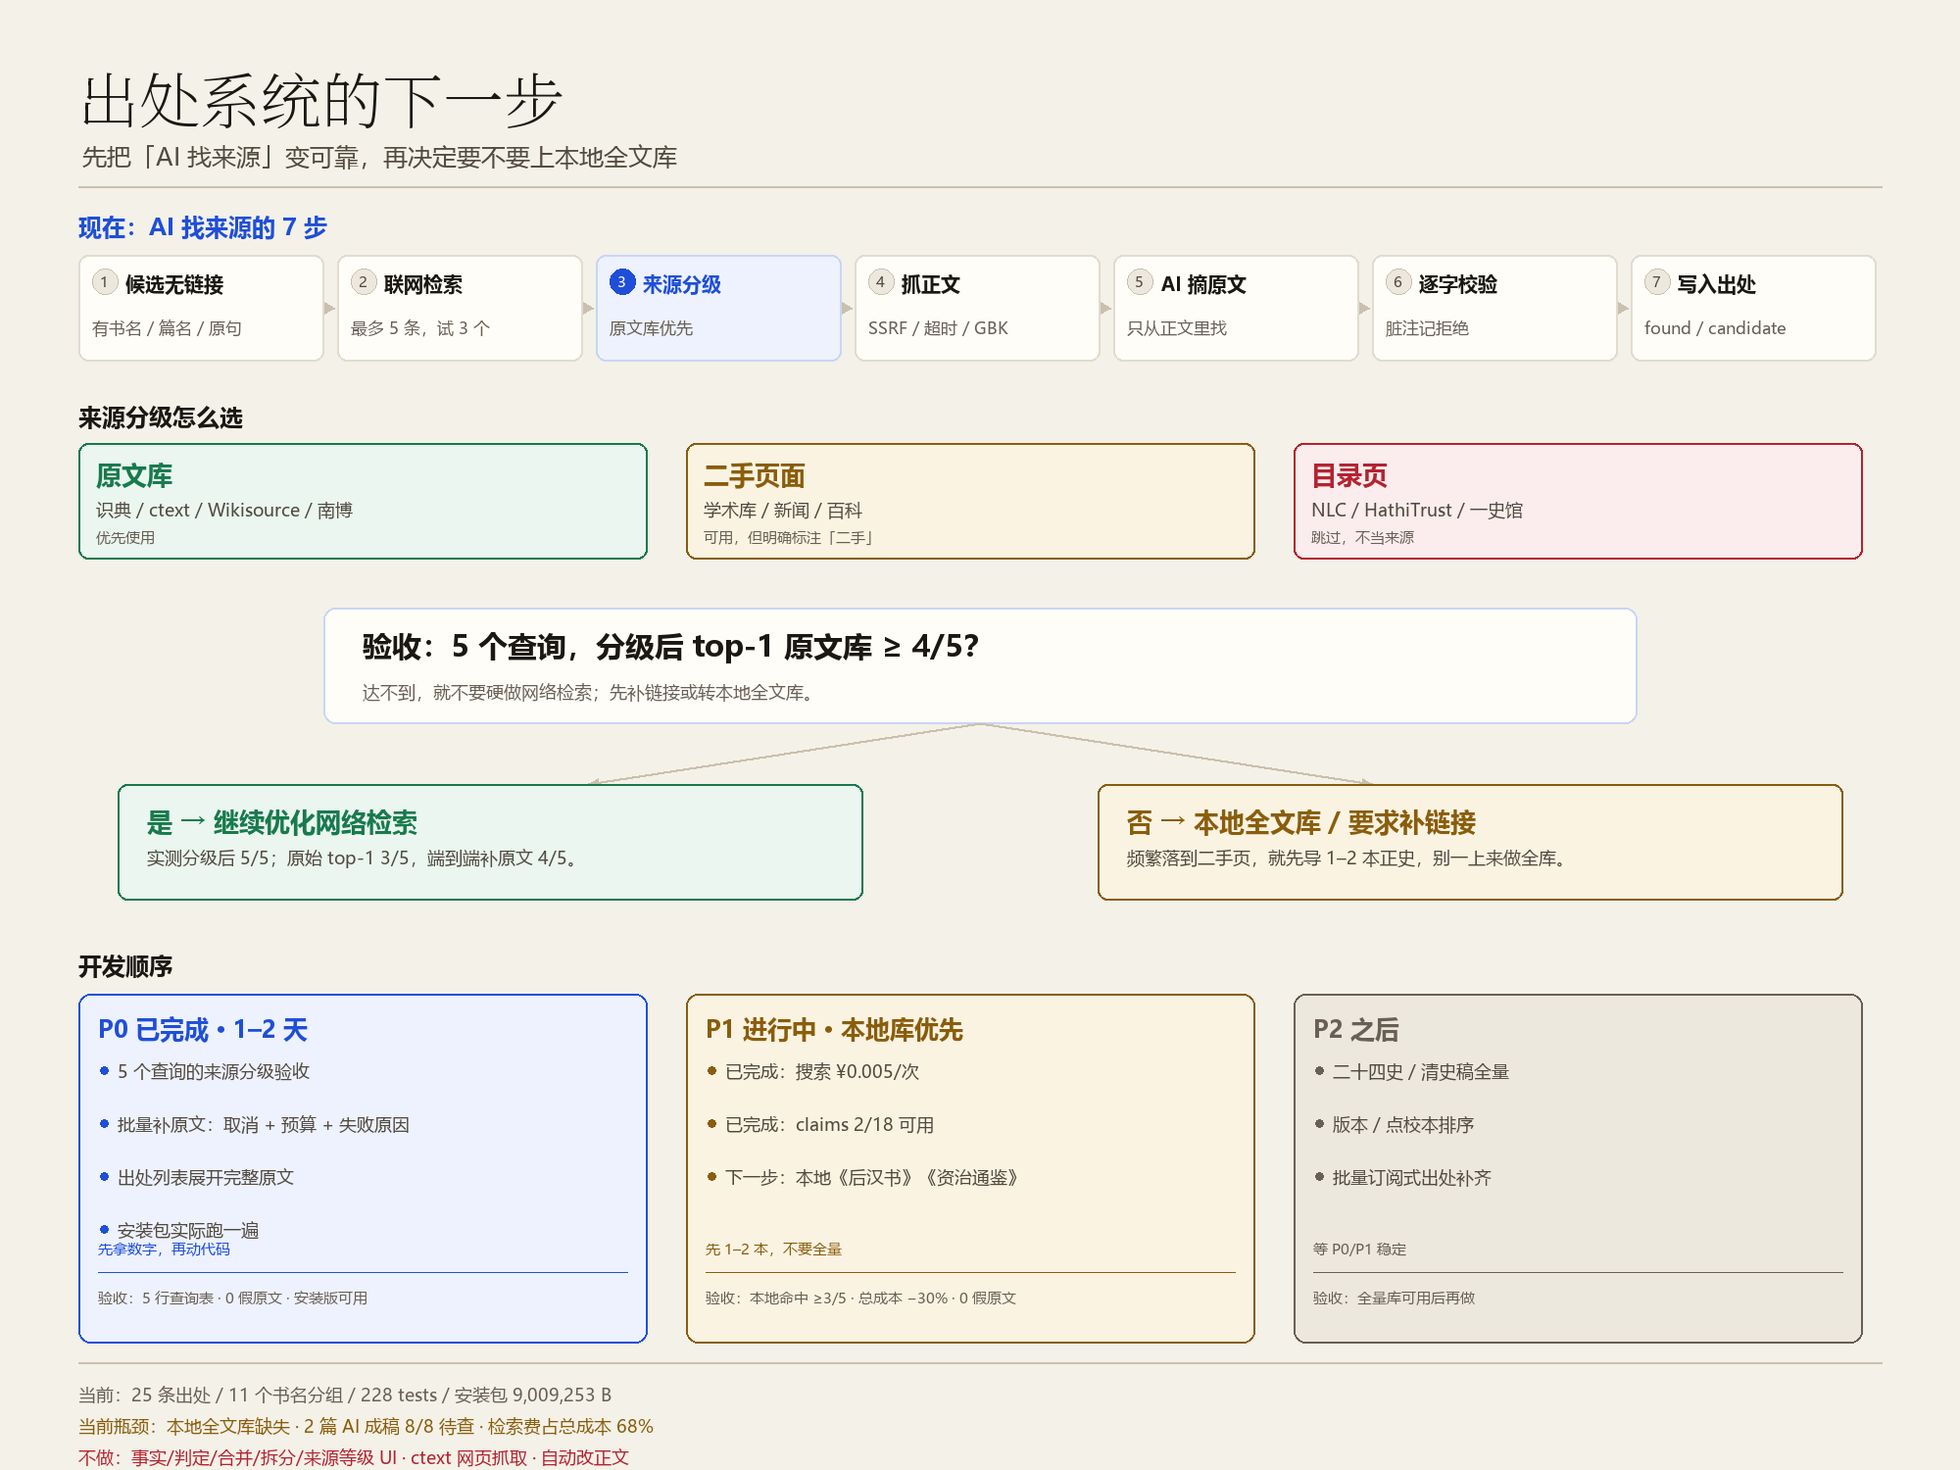
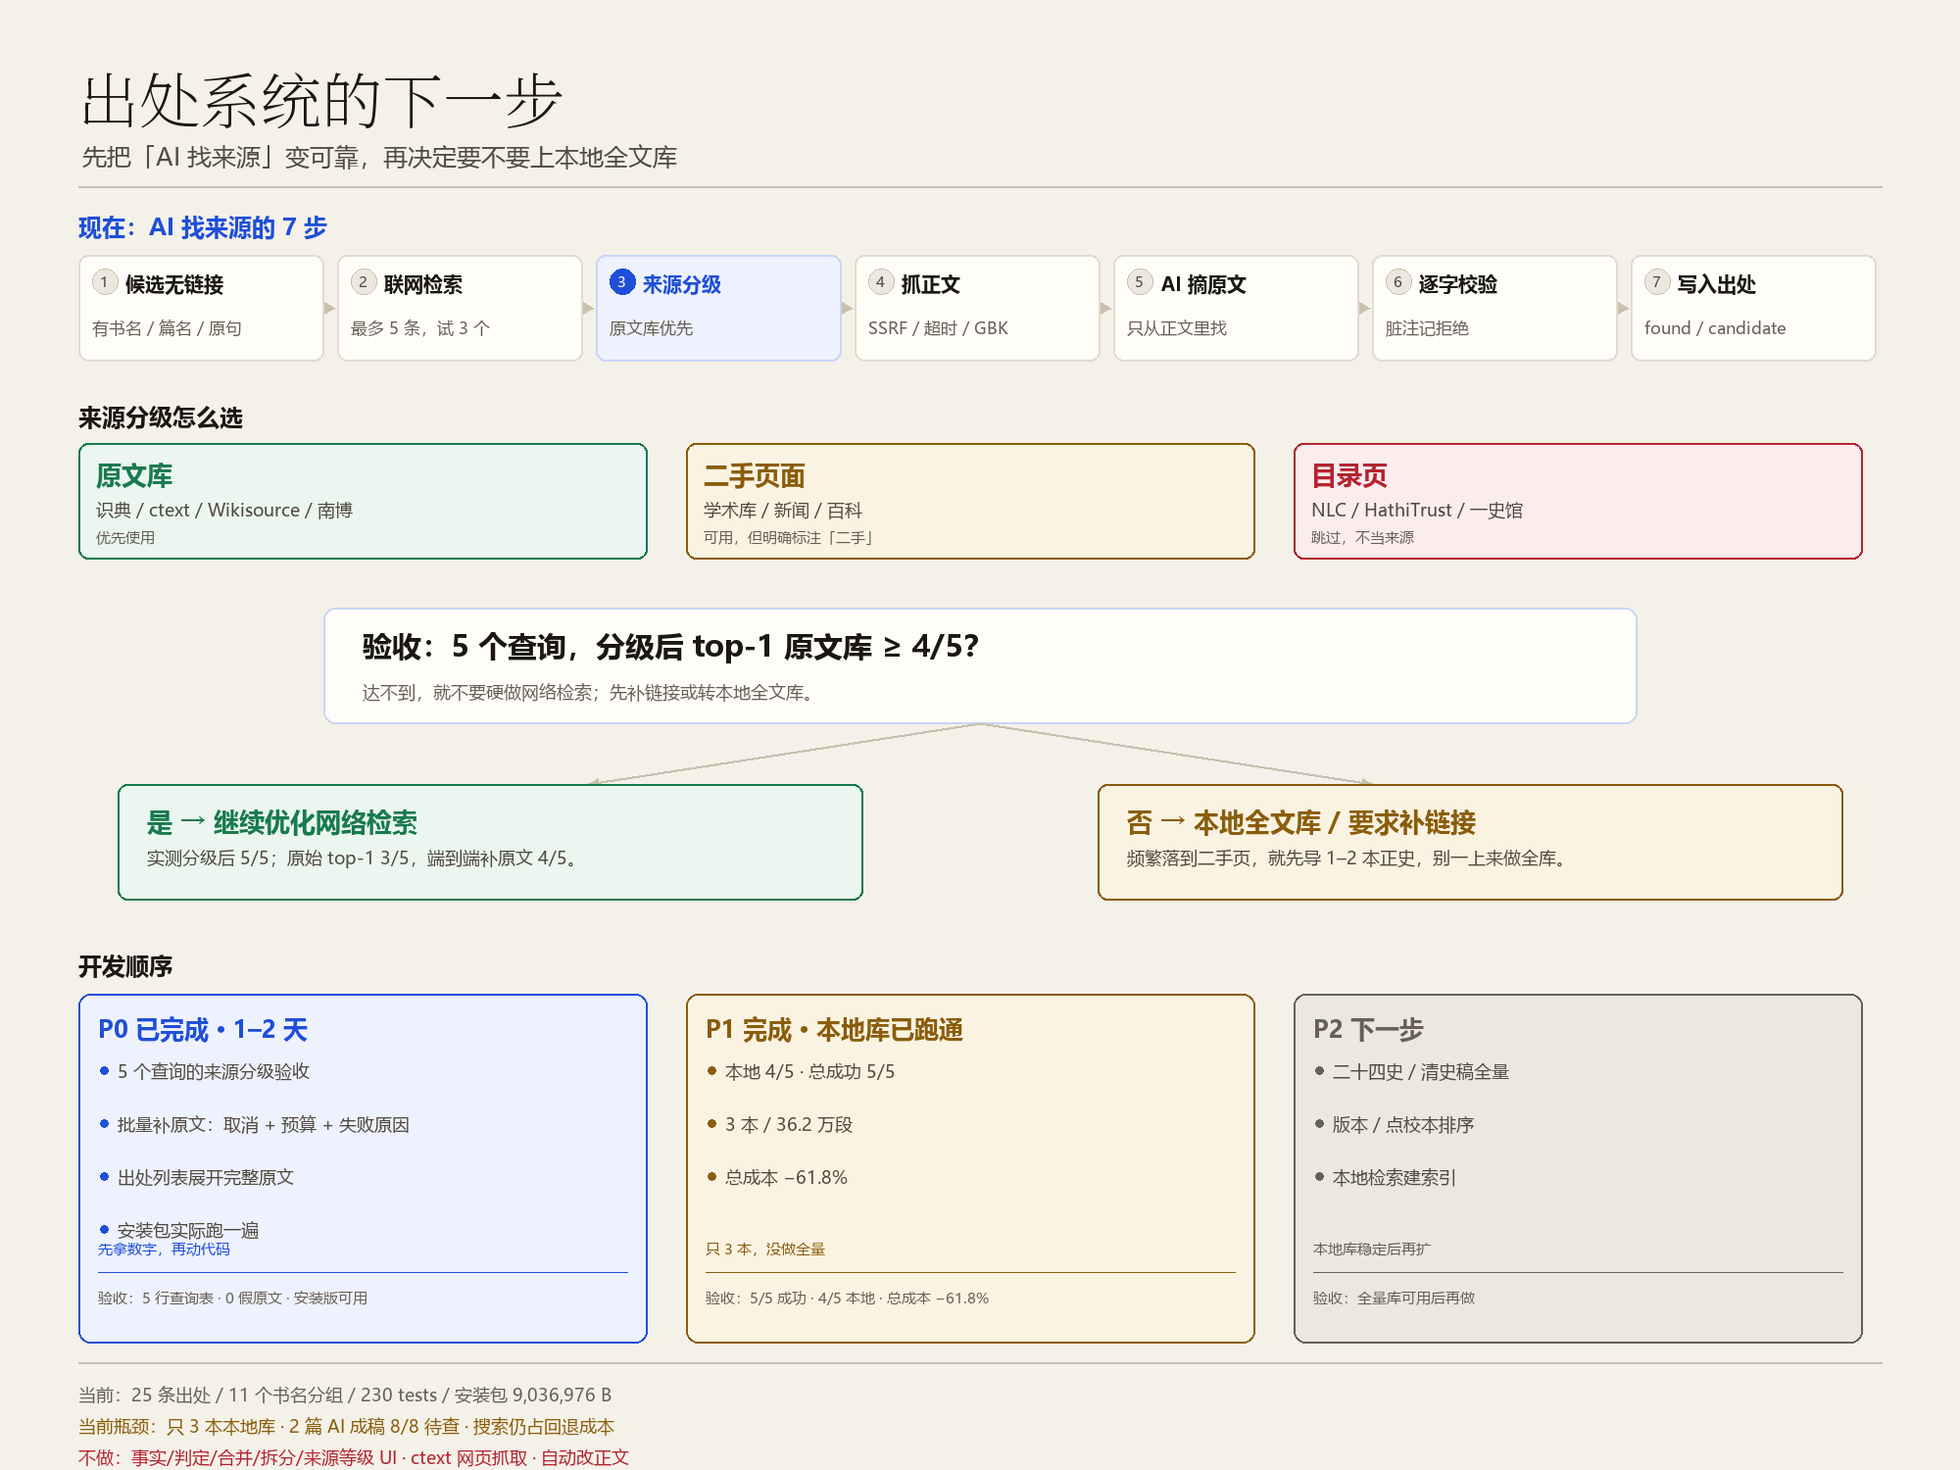
docs: 记录 P185 本地全文库与安装包
三本 361,551 段，5/5 成功、4/5 本地、总成本 ¥0.013996（−61.8%）。安装包 9,036,976 B，安装版验证了本地库与导入。

diff --git a/docs/HANDOFF.md b/docs/HANDOFF.md
@@ -5,9 +5,9 @@
 
 ## 1. 当前状态
 
-- 分支：`feat/native-production-facts-ui`；P137–P147 已推送（`0f62cec`），P148–P159 已提交并推送（HEAD 见 `git log`）；P160 速览 vs AI 成稿同源对比已记录。**P161–P166 已提交**：后端 `9b642f6`、前端 `44c6177`、工具 `68714a3`；文档 `7053590`、P167 文档 `d486dfb`。**P168 已提交**：主导航移除“事实”（`c03d96a`）、第三篇陈寿笔记 4/4 补原文、安装包体积（`b2f5650` / `d9e8beb`）。**P169 已做**：兼容性对照；**P170 已做**：AI 成稿 claims 协议 + cite_agent 确定性读取 + 出处栏状态标签；**P171 已做**：纠正串联，改用康熙原始转写并列对照；**P172 已做**：同一篇 AI 成稿的旧/新出处 agent 对照；**P173 已做**：出处编辑交互修复；**P174 已做**：AI 补原文（URL 抓取 + 模型定位 + 逐字校验）；**P175 已做**：claims 注释剥离 + AI 补原文成本回报；**P176 已做**：3 条批量补原文 + 1024 操作行；**P177 已做**：批量补原文 UI；**P178 已做**：无 URL 候选的 AI 找来源；**P179 已做**：来源分级 + 史料页收敛；**P180 已做**：批量停止/预算/失败原因 + 失败成本入账；**P181 已做**：5 查询来源与端到端验收；**P182 已做**：出处折叠 + 安装版验收；**P183 已做**：DeepSeek 搜索成本记账；**P184 已做**：AI 成稿 claims 基线与待查提示。正文曾短暂校正两处，按用户要求已还原；数据在 vault DB。`sample-vault/` 下的个人内容不要提交。
+- 分支：`feat/native-production-facts-ui`；P137–P147 已推送（`0f62cec`），P148–P159 已提交并推送（HEAD 见 `git log`）；P160 速览 vs AI 成稿同源对比已记录。**P161–P166 已提交**：后端 `9b642f6`、前端 `44c6177`、工具 `68714a3`；文档 `7053590`、P167 文档 `d486dfb`。**P168 已提交**：主导航移除“事实”（`c03d96a`）、第三篇陈寿笔记 4/4 补原文、安装包体积（`b2f5650` / `d9e8beb`）。**P169 已做**：兼容性对照；**P170 已做**：AI 成稿 claims 协议 + cite_agent 确定性读取 + 出处栏状态标签；**P171 已做**：纠正串联，改用康熙原始转写并列对照；**P172 已做**：同一篇 AI 成稿的旧/新出处 agent 对照；**P173 已做**：出处编辑交互修复；**P174 已做**：AI 补原文（URL 抓取 + 模型定位 + 逐字校验）；**P175 已做**：claims 注释剥离 + AI 补原文成本回报；**P176 已做**：3 条批量补原文 + 1024 操作行；**P177 已做**：批量补原文 UI；**P178 已做**：无 URL 候选的 AI 找来源；**P179 已做**：来源分级 + 史料页收敛；**P180 已做**：批量停止/预算/失败原因 + 失败成本入账；**P181 已做**：5 查询来源与端到端验收；**P182 已做**：出处折叠 + 安装版验收；**P183 已做**：DeepSeek 搜索成本记账；**P184 已做**：AI 成稿 claims 基线与待查提示；**P185 已做**：本地全文库（三本 36.2 万段，5/5 成功、成本 −61.8%）。正文曾短暂校正两处，按用户要求已还原；数据在 vault DB。`sample-vault/` 下的个人内容不要提交。
 - 最近构建：`cargo test --lib` **226 passed / 7 ignored**；`npm run build` 通过；P166 视觉 607/608、P167 视觉 609–612、P168 视觉 613–616、P170 视觉 619/620 均 pass。三篇旧链路共 **15/15** 条出处有原文；AI 成稿 claims 小样 1 found + 1 candidate。
[2 lines of base64/hex data omitted]
 - 制作台可见模板 **4 个**：视频笔记、文稿笔记、**AI 成稿**、速览与溯源；技术小册子、HTML 作者版、前端 agent runtime、技术调研笔记、智能体笔记已删除。
 - `sample-vault/` 下未跟踪的个人笔记和 `.yebian/` 运行产物不是代码改动，不要提交。
 
@@ -164,7 +164,7 @@
 - **证据**：对照图 `docs/trace-agent/compare-bili.png`（1800×1280，2x）、数据 `docs/trace-agent/runs/compare-bili/comparison.json`、生成器 `tools/build-trace-compare-chart.mjs`。独立视觉评审 8 分 pass，修掉小字/行 04/标签键后复检。
 - **边界**：单视频、10 条、无人工盲评；hybrid v1 是单循环，不是最终 per-claim agent；旧事实在库里但 hybrid 忽略；安装包未重打。
 
-### 2026-11-21 增量：出处系统（P163–P184，已提交）
+### 2026-11-21 增量：出处系统（P163–P185，已提交）
 
 - **产品降级**：历史学习只需要“笔记原句 → 书名/原文”，不再做事实/判定/合并/拆分/候选分级。旧事实与史料页保留为档案，不删数据。
 - **新模型**：`note_citations`（history.rs）存 note_id、逐字 note_quote、work_title/author/volume/page/locator、original_text、status found/candidate、passage/source/url/snippet；复用 sources/source_passages/history_search_candidates。
@@ -189,6 +189,7 @@
[4 lines of base64/hex data omitted]
 - **P178 无 URL 候选 AI 找来源**：`fill_original` 无 URL 时用 work/section/原句联网检索（最多 5 条，取前 3 个 URL），逐个抓取+定位+逐字校验；`quote_is_clean` 拒绝“同上/頁/页/http/www.”。实测第一次学术库结果因“173/同上，頁334”被拒，重跑得到干净“春正月，大疫，使使者巡行致醫藥。”，15,958ms / ¥0.001919 / found；UI 14.3s / ¥0.0010，截图 645，视觉 pass。
 - **P177 批量补原文 UI**：出处栏新增 `AI 补齐候选 N`，只处理有 URL 的候选，串行补；运行中 `AI 补齐 1/3…`，完成后 `AI 补齐完成：3/3 成功 · ¥0.0052`，无候选时按钮消失。实测 3/3 found、约 5s、¥0.0052；截图 644，视觉 pass；226 tests。
 - **P176 批量补原文 + 1024**：3 条候选串行 AI 补原文 **3/3 found / 约 5.3s / ¥0.0207**：后汉书南博页两条（1,031ms/¥0.000755、1,576ms/¥0.009449），资治通鉴卷132一条（2,712ms/¥0.010488）。1024 下操作行 `AI 补原文/手动补原文/打开来源/删除` 能放下，无横向溢出；切笔记残留提示已在 `loadCitations` 清空。截图 642/643，视觉两页 pass。
@@ -229,7 +230,7 @@
 - **AI 成稿默认门禁很宽**：只有 1 个 H1 + ≥200 CJK；不再有固定 8–12 节、无表格、禁用小节等严格规则。需要结构时靠向导里的「写作要求」，它是软 brief，不是确定性校验。
 - **HTML 视觉块（P159）**：中性色归一只是常见 hex 值映射，模型仍可能写硬编码强调色/复杂布局；旧 figure 笔记按普通代码块显示；FTS/字数要重建索引；已重启新二进制并重建索引，复跑输出为竖排时间线，复检 3 页 pass；fallback LIKE 也过滤 CSS 词；复检的竖脊线/时间色/标题字重/max-width 建议未实现；多稿实测发现 720→575 设计宽度错误已修，`rgb()` 灰度也已归一，`resize` 会重算高度；未重打安装包。
 - **溯源 Agent（P161/P162）**：实验版，已被 P163 出处系统替代；旧事实页仍保留为档案。
-- **出处系统（P163–P184）**：三篇旧链路 15/15 有原文；P170 claims 确定性读取；P171 纠正串联；P172 同一 AI 成稿旧路径 2 候选/19.4s vs 新路径 1 found+1 candidate/6ms；P173 交互修复；P174 AI 补原文；P175 claims 注释剥离（450→238）与成本回报；P176 3 条批量 3/3 found/约 5.3s/¥0.0207；P177 批量 UI 3/3/¥0.0052；P178 无 URL AI 找来源；P179 来源分级（识典 primary 2,474ms/¥0.00169）+ 史料页收敛（25 条/11 组）；P180 批量停止/预算/失败原因 + 失败成本入账；P181 5 查询原始 top-1 3/5、分级后 5/5、端到端 4/5/¥0.018469；P182 出处折叠 + 安装版 `9,004,718 B` 安装验收；P183 DeepSeek 搜索 ¥0.005/次记账，端到端总成本 ¥0.036640；P184 3 篇 AI 成稿 claims 审计：18 条仅 2 条可引用，2 篇 8/8 待查；出处栏显式提示。`work` 为空跳过；`待查` 不落出处；正文未改，差异保留在出处卡片；补原文只保存文本、不自动对齐；自动收尾代码已加但未真实模型复跑；陈寿「评价最好」是作者判断；旧事实页已从主导航移除、数据未删；目录页候选不进入批量；Tavily/Zhipu 搜索仍未计价。
+- **出处系统（P163–P185）**：三篇旧链路 15/15 有原文；P170 claims 确定性读取；P171 纠正串联；P172 同一 AI 成稿旧路径 2 候选/19.4s vs 新路径 1 found+1 candidate/6ms；P173 交互修复；P174 AI 补原文；P175 claims 注释剥离（450→238）与成本回报；P176 3 条批量 3/3 found/约 5.3s/¥0.0207；P177 批量 UI 3/3/¥0.0052；P178 无 URL AI 找来源；P179 来源分级（识典 primary 2,474ms/¥0.00169）+ 史料页收敛（25 条/11 组）；P180 批量停止/预算/失败原因 + 失败成本入账；P181 5 查询原始 top-1 3/5、分级后 5/5、端到端 4/5/¥0.018469；P182 出处折叠 + 安装版 `9,004,718 B` 安装验收；P183 DeepSeek 搜索 ¥0.005/次记账，端到端总成本 ¥0.036640；P184 3 篇 AI 成稿 claims 审计：18 条仅 2 条可引用，2 篇 8/8 待查；P185 本地全文库 3 本/361,551 段，5/5 成功、4/5 本地、成本 ¥0.013996（−61.8%）。`work` 为空跳过；`待查` 不落出处；正文未改，差异保留在出处卡片；补原文只保存文本、不自动对齐；自动收尾代码已加但未真实模型复跑；陈寿「评价最好」是作者判断；旧事实页已从主导航移除、数据未删；目录页候选不进入批量；Tavily/Zhipu 搜索仍未计价。
 - 运行页轨迹：Rust 引擎每回合写 log + 最终 `agent-run.json`；实时回合不再依赖窗口内存。
 - 运行页已实拍 1440×900、1040×760、980×760、1440×760；**暗色和真失败态（门禁耗尽/超 token/超回合）仍未逐页审计**；≤980 drawer 会盖住时间线右半，是有意取舍。
 - 取消现在会中断 in-flight 模型请求（body 读取进 `tokio::select!`）；修复前的旧取消任务仍保留 70.9s 历史轨迹，不回填。

diff --git a/docs/CITATIONS.md b/docs/CITATIONS.md
@@ -97,9 +97,10 @@
[4 lines of base64/hex data omitted]
 - **P172 同一篇 AI 成稿：旧/新出处 agent（2026-11-22）**：固定《九个字里的官渡》的可见正文，只换出处 agent。旧副本去掉 claims 块后走模型/tool 路径：**2 候选 / 0 found / 19.4s / ¥0.0126 / 15 回合**，第二条挂成《资治通鉴》（claims 写的是《三国志·武帝纪》）；新 claims 路径：**1 found + 1 candidate / 6ms / 0 token / 0 回合**，第一条带原文“公至延津，绍众大溃。”，第二条为《三国志》候选。截图 626/627。
 - **P166 管理闭环**：`cite_agent` 达到 6 条立即结束；出处卡片加 `改原文`/`删除`。真实 UI 探针（`tools/probe-cite-ui.mjs`）在华佗笔记上新增 1 条临时出处 → 6 条，点 `改原文` 保存为“测试原文二”，点 `删除` 后回到 5 条，临时记录已清理。
-- `cargo test --lib` **228 passed / 7 ignored**；`npm run build` 通过；P166 视觉 607/608、P167 视觉 609–612、P168 视觉 613–616、P170 视觉 619/620、P180–184 视觉/探针复检通过。
+- `cargo test --lib` **230 passed / 7 ignored**；`npm run build` 通过；P166 视觉 607/608、P167 视觉 609–612、P168 视觉 613–616、P170 视觉 619/620、P180–185 视觉/探针复检通过。
 - **原文与笔记的差异**（正文未改，差异保留在出处卡片）：北魏正文“十之八九”，《資治通鑑》原文“手足斷者什七八”；曹操正文“头骨上的蛀牙”，潘伟斌文“多颗牙齿/牙齿”。陈寿笔记“评价最好的几个人之一”是作者判断，《三国志·评曰》只支持“识治之良才，管、萧之亚匹”的高评价，不是字面排名。
 
 ## 6. 已知限制

diff --git a/docs/LOCAL_CORPUS.md b/docs/LOCAL_CORPUS.md
@@ -1,0 +1,72 @@
+# 本地全文库
+
+## 当前数据
+
+本轮导入了三本公版史书，存放在用户的 `yebian.sqlite` 里（不打包进安装包）：
+
+| 书 | 作者 | 段落 | 来源 |
+| --- | --- | ---: | --- |
+| 资治通鉴 | 司马光 | 258,436 | [Ancient-China-Books/zizhitongjian](https://github.com/Ancient-China-Books/zizhitongjian) |
+| 后汉书 | 范晔 | 67,160 | [Ancient-China-Books/houhanshu](https://github.com/Ancient-China-Books/houhanshu) |
+| 三国志 | 陈寿 | 35,955 | [Ancient-China-Books/sanguozhi](https://github.com/Ancient-China-Books/sanguozhi) |
+
+合计 **361,551 段**；`yebian.sqlite` 约 **165 MiB**（173,174,784 B）。原始仓库是公版 EPUB；后汉书仓库 README 注明基于「漢川草廬」重製。
+
+## 怎么导入
+
+### 应用内
+
+1. 打开「史料」页。
+2. 点右上「导入全文」。
+3. 填书名/作者/朝代，选择一个或多个 `txt` / `md` / `html` 文件。
+4. 点「导入并切分」。应用会去掉 HTML 标签，按句号/分号/换行切 passage，并写入 `sources` / `source_passages`。
+
+### 命令行（开发用）
+
+```text
+node tools/import-local-corpus.mjs <目录> <书名> [作者] [朝代]
+```
+
+脚本会递归读取目录下的 html/txt/md，按文件名排序，逐个调用 `production_local_corpus_import`。应用需要带 CDP 9222 运行。
+
+## 检索与回填
+
+- 补原文时，如果候选没有 URL，或 URL 是目录页，先查本地 passage；本地没有命中才走联网检索。
+- 本地检索用 4 字重叠评分，完全包含原句时加 1000 分；最多取 3 段。
+- `normalized_text` 用 OpenCC `TSCharacters.txt`（Apache-2.0）把繁体归一成简体；`original_text` 保留原字。这样简体笔记能搜到繁体原文，卡片仍显示原字。
+- 命中后仍要过逐字校验：模型只能从 passage 里挑连续原文，不能自己写。成功写回 `source_id` / `passage_id` / `provider = local-corpus`，卡片显示「本地库」。
+
+## 实测（2026-11-23）
+
+同一组 5 条无 URL 候选：
+
+| 指标 | P183 只有联网 | P185 本地优先 |
+| --- | ---: | ---: |
+| 成功 | 4/5 | **5/5** |
+| 本地命中 | 0 | **4/5** |
+| 可信来源（本地或原文库） | 4/5 | **5/5** |
+| 总耗时 | 22.4s | **15.6s** |
+| 模型成本 | ¥0.011640 | ¥0.0090 |
+| 检索成本 | ¥0.025 | **¥0.005** |
+| 总成本 | ¥0.036640 | **¥0.013996** |
+
+成本下降 **61.8%**，本地命中 **4/5**，达到计划里的验收线（本地 ≥3/5、成本 ≥30%、0 条假原文）。
+
+逐条：
+
+- 三国志·武帝纪：本地，2,985ms，¥0.0018，原文「紹衆大潰，紹及譚棄軍走，渡河。」
+- 后汉书·五行志：本地，509ms，¥0，原文「建安二十二年，大疫。」
+- 资治通鉴·泰始二年：本地，2,029ms，¥0.0010，原文「泗水冰合，永等棄船步走」
+- 三国志·华佗传：本地，1,464ms，¥0.0012，原文「病若在腸中，便斷腸湔洗，縫腹膏摩…」
+- 宋书·薛安都传：未导入，回退联网，8,655ms，¥0.0100（含检索 ¥0.0050）
+
+原始数据：[`docs/local-corpus.json`](local-corpus.json)、[`docs/cite-fill-bench.json`](cite-fill-bench.json)。
+
+## 已知限制
+
+- 只导入了三本，不是二十四史全量。
+- 检索是 4 字重叠 + 扫描 `LIKE`，不是 FTS/向量检索；大库再扩时需要建索引。
+- 繁简归一能覆盖常见字，但异体字/避讳字仍可能漏；漏了会回退联网。
+- 导入是按文件顺序拼接，没有保留原书的卷/篇结构；`chapter` 目前统一写「全卷」。
+- 安装包不包含语料，换机器需要重新导入。
+- 本地原文保留繁体，和正文简体不一致时会在出处卡片里表现为差异；这是有意保留原字。
